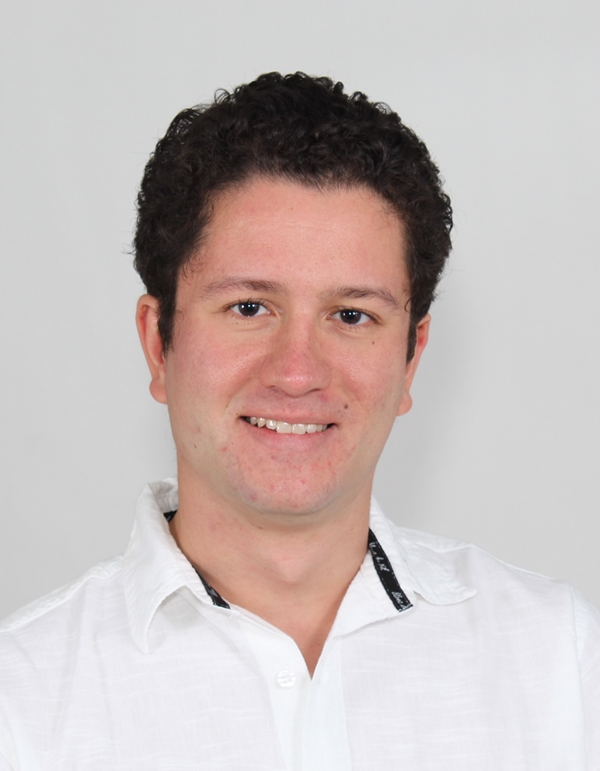
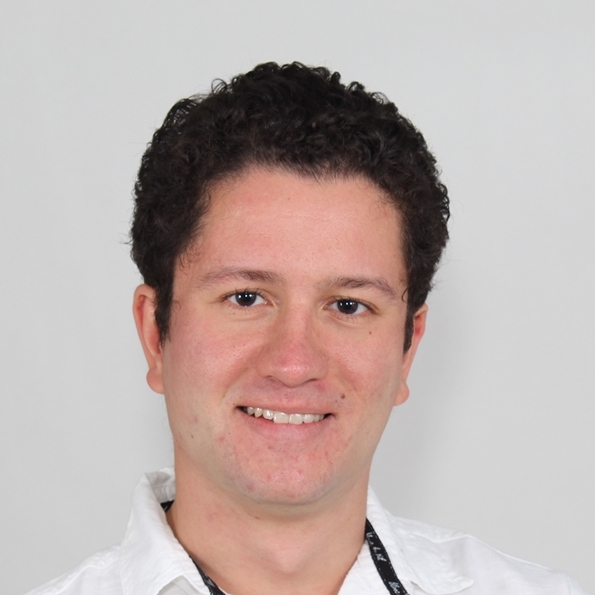
start to write some content

diff --git a/src/templates/projectTemplate.js b/src/templates/projectTemplate.js
@@ -45,22 +45,16 @@ export default function Template({
         </Grid>
         <Grid container spacing={3}>
           <Grid item xs={12}>
-            <SecondaryTitle variant="h2" align="center">Collaborateurs</SecondaryTitle>
-          </Grid>
-          <Grid item xs={12} style={{marginBottom: '30px'}}>
-            <Typography align="center">{frontmatter.author}</Typography>
-          </Grid>
-        </Grid>
-        <Grid container spacing={3}>
-          <Grid item xs={12}>
-            <SecondaryTitle variant="h2" align="center">Liens</SecondaryTitle>
+            <SecondaryTitle variant="h2" align="center">Liens Externes</SecondaryTitle>
           </Grid>
           <Grid item xs={12} align="center">
             <OutsideLink href={frontmatter.githubLink}>Repo github</OutsideLink>
           </Grid>
+          { frontmatter.prodLink && 
           <Grid item xs={12} align="center" style={{marginBottom: '30px'}}>
-            <OutsideLink href={frontmatter.prodLink}>Site</OutsideLink>
+            <OutsideLink href={frontmatter.prodLink}>Site en production</OutsideLink>
           </Grid>
+          }
         </Grid>
       </Container>
     </Layout>
@@ -77,7 +71,6 @@ export const pageQuery = graphql`
         imgName
         concept
         description
-        author
         githubLink
         prodLink
         stack

diff --git a/src/components/images/ProfilImage.js b/src/components/images/ProfilImage.js
@@ -1,31 +1,30 @@
 import React from "react"
 import { useStaticQuery, graphql } from "gatsby"
 import Img from "gatsby-image"
+import { makeStyles } from '@material-ui/styles'
 
-/*
- * This component is built using `gatsby-image` to automatically serve optimized
- * images with lazy loading and reduced file sizes. The image is loaded using a
- * `useStaticQuery`, which allows us to load the image from directly within this
- * component, rather than having to pass the image data down from pages.
- *
- * For more information, see the docs:
- * - `gatsby-image`: https://gatsby.dev/gatsby-image
- * - `useStaticQuery`: https://www.gatsbyjs.org/docs/use-static-query/
- */
+const useStyles = makeStyles({
+  image: {
+    borderRadius: '50%',
+    maxWidth: '400px'
+  }
+})
+
 
 const ProfilImage = () => {
   const data = useStaticQuery(graphql`
     query {
       placeholderImage: file(relativePath: { eq: "profil-picture.JPG" }) {
         childImageSharp {
-          fluid(maxWidth: 300) {
+          fluid(maxWidth: 600) {
             ...GatsbyImageSharpFluid
           }
         }
       }
     }
   `)
-  return <Img fluid={data.placeholderImage.childImageSharp.fluid} />
+  const classes = useStyles()
+  return <Img className={classes.image} fluid={data.placeholderImage.childImageSharp.fluid} />
 }
 
 export default ProfilImage

diff --git a/src/templates/indexTemplate.js b/src/templates/indexTemplate.js
@@ -17,13 +17,13 @@ export default function Template({data}) {
     <Layout>
       <SEO title="Home" />
       <MainTitle title={frontmatter.mainTitle} />
-      <Grid container direction="row" justify="center" align-items="center" spacing={3}>
-        <Grid item xs={12} sm={6} md={3}><ProfilImage /></Grid>
+      <Grid container direction="row" align="center" justify="center"  spacing={3}>
+        <Grid item xs={12} sm={6} md={3} ><ProfilImage /></Grid>
         <Grid item xs={12} md={9}><Typography variant="h6" align="justify">{frontmatter.introduction}</Typography></Grid>
       </Grid>
       <Box mt={5}>
       <MainTitle title="Technologies" />
-      <Grid container direction="row" justify="center" align-items="center" spacing={3}>
+      <Grid container direction="row" align="center" justify="center"  spacing={3}>
         <Grid item xs={12} sm={6}>
           <SecondaryTitle>Front-end</SecondaryTitle>
           <ArrayList arr={frontmatter.frontTechnos.split(',')} />

diff --git a/src/components/header.js b/src/components/header.js
@@ -10,6 +10,7 @@ import {
   IconButton,
   Hidden,
   Collapse,
+  Typography
 } from '@material-ui/core'
 
 import MenuIcon from '@material-ui/icons/Menu'
@@ -31,7 +32,7 @@ const Header = ({siteTitle}) => {
         <Hidden only={['xs']}>
           <Grid container justify="space-between">
             <Grid item>
-              <NavLink to="/">Olivier Rohellec</NavLink>
+              <NavLink to="/">Accueil</NavLink>
             </Grid>
             <Grid item>
               <Grid container direction="row">
@@ -53,7 +54,7 @@ const Header = ({siteTitle}) => {
         <Hidden smUp>
           <Collapse in={expanded} timeout="auto" unmountOnExit>
             <Grid container direction="column"  alignContent="center">
-                <NavLink to="/">Olivier Rohellec</NavLink>
+                <NavLink to="/">Accueil</NavLink>
                 <NavLink to="/portfolio">Portfolio</NavLink>
                 <NavLink to="/contact">Contact</NavLink>
             </Grid>

diff --git a/src/components/outsideLink.js b/src/components/outsideLink.js
@@ -4,12 +4,15 @@ import { makeStyles } from '@material-ui/core/styles';
 
 const useStyles = makeStyles({
   outsideLink: {
+    borderRadius: 5,
     color: 'black',
     display: 'block',
     textDecoration: 'none',
     fontSize: '1.3rem',
+    maxWidth: '300px',
     '&:hover': {
-      backgroundColor: '#21dafb'
+      backgroundColor: '#1f3a41',
+      color: 'white'
     }
   }
 })

diff --git a/src/pages/contact.js b/src/pages/contact.js
@@ -14,7 +14,6 @@ import Layout from "../components/layout"
 import MainTitle from "../components/mainTitle"
 
 const ContactPage = () => {
-
   const encode = (data) => {
     return Object.keys(data)
         .map(key => encodeURIComponent(key) + "=" + encodeURIComponent(data[key]))

diff --git a/src/components/ListItemLink.js b/src/components/ListItemLink.js
@@ -5,7 +5,11 @@ import { makeStyles } from '@material-ui/styles'
 
 const useStyles = makeStyles({
   button: {
-    padding: 0
+    padding: '0 20px',
+    borderRadius: 5,
+    '&:hover': {
+      backgroundColor: '#1f3a41'
+    }
   }
 })
 

diff --git a/src/components/navLink.js b/src/components/navLink.js
@@ -13,6 +13,7 @@ const useStyles = makeStyles({
     padding: '0.7rem',
     fontSize: '1.3rem',
     fontWeight: 'bold',
+    borderRadius: 5,
     '&:hover': {
       backgroundColor: '#1f3a41'
     }

diff --git a/src/markdown-pages/projects/fight-arena.md b/src/markdown-pages/projects/fight-arena.md
@@ -2,11 +2,10 @@
 type: "project"
 imgName: "fight-arena.png"
 path: "/portfolio/fight-arena"
-title: "Simple jeu d'arène"
-description: "Lorem ipsum dolor sit amet, consectetur adipiscing elit. Aenean elementum sed eros in dapibus. Donec tristique justo aliquet magna euismod commodo. Duis id tortor facilisis, eleifend nisi in, volutpat arcu. Ut vestibulum molestie interdum. Mauris molestie congue sapien vel hendrerit. Nulla placerat, erat eu vulputate varius, odio dolor tristique nisl, vitae malesuada nunc purus scelerisque leo. Pellentesque bibendum ipsum nunc, facilisis porttitor lectus varius nec. Sed convallis nisi nibh, eu finibus ligula tincidunt eu. Phasellus aliquet nunc id tortor egestas, in sollicitudin nisl sagittis. Curabitur pellentesque nunc tortor, vitae ultrices nulla dapibus in. Mauris vehicula feugiat massa, sed venenatis mi tincidunt eget. Ut vulputate nunc nec nisl lobortis facilisis. Cras sit amet leo in sapien faucibus sollicitudin."
-author: "Olivier"
+title: "Fight Arena"
+description: "Mini jeu de combat créé dans le contexte d'un test technique pour l'entreprise Captain Contrat. Pour pouvoir jouer il faut créer un compte. On peut ensuite créer un combattant et l'équiper avec quelques objets afin de le faire combattre contre un combattant aléatoire appartenant à un autre joueur. Le nombre de victoires et de défaites est enregistré ainsi que l'historique du combat. On peut également visualiser le palmarés des meilleurs combattants. NB: Le jeu n'est pas réellement fun, c'était davantage pour me remettre sur Ruby on Rails après avoir fait un grand détout par javascript, react, node.js"
 concept: "Mini jeu de combat ou l'on peut créer un combattant et le faire s'affronter avec les combattants des autres joueurs"
 githubLink: "https://github.com/orohellec/captain-contrat-test"
 prodLink: "https://fight-world-arena.herokuapp.com"
-stack: "ruby on rails,bootstrap,rspec"
+stack: "html css,ruby on rails,rspec,heroku"
 ---

diff --git a/src/markdown-pages/projects/ecommerce.md b/src/markdown-pages/projects/ecommerce.md
@@ -3,10 +3,11 @@ type: "project"
 imgName: "shop-ecommerce.png"
 path: "/portfolio/site-ecommerce"
 title: "Site Ecommerce"
-description: "Lorem ipsum dolor sit amet, consectetur adipiscing elit. Aenean elementum sed eros in dapibus. Donec tristique justo aliquet magna euismod commodo. Duis id tortor facilisis, eleifend nisi in, volutpat arcu. Ut vestibulum molestie interdum. Mauris molestie congue sapien vel hendrerit. Nulla placerat, erat eu vulputate varius, odio dolor tristique nisl, vitae malesuada nunc purus scelerisque leo. Pellentesque bibendum ipsum nunc, facilisis porttitor lectus varius nec. Sed convallis nisi nibh, eu finibus ligula tincidunt eu. Phasellus aliquet nunc id tortor egestas, in sollicitudin nisl sagittis. Curabitur pellentesque nunc tortor, vitae ultrices nulla dapibus in. Mauris vehicula feugiat massa, sed venenatis mi tincidunt eget. Ut vulputate nunc nec nisl lobortis facilisis. Cras sit amet leo in sapien faucibus sollicitudin."
-author: "Olivier, Quentin, Charles"
-concept: "Réaliser un site ecommerce avec un espace Administrateur"
+description: "Ce projet a été pour nous un bon moyen de revoir et d’approfondir les connaissances accumulées lors de la formation initiale. 
+En dépit des images de pokémons présentes, ce site contient les fonctionnalités essentielles d’un site Ecommerce. Possibilité de créer un compte, d’ajouter des produits à son panier, et de passer commande.
+Il y a également une interface administrateur permettant l’ajout, l’édition, la suppression de produits, le suivi de commande."
+concept: "Site Ecommerce réalisé dans le cadre de la formation The Hacking Project Next avec deux camarades Lyonnais (Quentin et Charles) en télétravail"
 githubLink: "https://github.com/orohellec/shop_ecommerce"
 prodLink: "https://ecommercethp-production.herokuapp.com/"
-stack: "ruby on rails,bootstrap,rspec"
+stack: "ruby on rails,bootstrap,rspec,redis,sidekiq,docker,heroku"
 ---

diff --git a/src/markdown-pages/projects/my-website.md b/src/markdown-pages/projects/my-website.md
@@ -3,9 +3,8 @@ type: "project"
 imgName: "my-website.png"
 path: "/portfolio/site-personnel"
 title: "Site Personnel"
-description: "Lorem ipsum dolor sit amet, consectetur adipiscing elit. Aenean elementum sed eros in dapibus. Donec tristique justo aliquet magna euismod commodo. Duis id tortor facilisis, eleifend nisi in, volutpat arcu. Ut vestibulum molestie interdum. Mauris molestie congue sapien vel hendrerit. Nulla placerat, erat eu vulputate varius, odio dolor tristique nisl, vitae malesuada nunc purus scelerisque leo. Pellentesque bibendum ipsum nunc, facilisis porttitor lectus varius nec. Sed convallis nisi nibh, eu finibus ligula tincidunt eu. Phasellus aliquet nunc id tortor egestas, in sollicitudin nisl sagittis. Curabitur pellentesque nunc tortor, vitae ultrices nulla dapibus in. Mauris vehicula feugiat massa, sed venenatis mi tincidunt eget. Ut vulputate nunc nec nisl lobortis facilisis. Cras sit amet leo in sapien faucibus sollicitudin."
-author: "Olivier"
-concept: "Réaliser un site portfolio sans base de donnée"
+description: "Il s'agit de mon site personnelle sur lequel vous êtes en ce moment même. J'ai décidé d'utiliser Gatsby pour le réaliser pour plusieurs raisons. C'était un bon moyen pour moi de refaire un peu de react, d'apprendre Graphql, la librairie de composants Material-Ui, de découvrir le monde des générateurs de sites statiques ainsi que les headless CMS. De plus c'est rapide ce qui est agréable en plus d'améliorer le SEO et cerise sur le gâteau l'hébergement est gratuit! Ce site est relié à une interface admin éditoriale (Nelify CMS) ou je peux modifier une partie de mon contenu sans avoir à retourner dans le code de l'application. Un mini wordpress en somme!"
+concept: "Réaliser mon propre site portfolio sans base de donnée"
 githubLink: "https://github.com/orohellec/my_website"
 prodLink: ""
 stack: "Gatsby,React,Graphql,Material-ui,Netlify,Netlify-cms"

diff --git a/src/markdown-pages/index.md b/src/markdown-pages/index.md
@@ -3,7 +3,11 @@ type: "home"
 title: "Olivier Rohellec"
 path: "/"
 mainTitle: "Développeur fullstack React / Ruby on Rails"
-introduction: "Lorem ipsum dolor sit amet, consectetur adipiscing elit. Aenean elementum sed eros in dapibus. Donec tristique justo aliquet magna euismod commodo. Duis id tortor facilisis, eleifend nisi in, volutpat arcu. Ut vestibulum molestie interdum. Mauris molestie congue sapien vel hendrerit. Nulla placerat, erat eu vulputate varius, odio dolor tristique nisl, vitae malesuada nunc purus scelerisque leo. Pellentesque bibendum ipsum nunc, facilisis porttitor lectus varius nec. Sed convallis nisi nibh, eu finibus ligula tincidunt eu. Phasellus aliquet nunc id tortor egestas, in sollicitudin nisl sagittis. Curabitur pellentesque nunc tortor, vitae ultrices nulla dapibus in. Mauris vehicula feugiat massa, sed venenatis mi tincidunt eget. Ut vulputate nunc nec nisl lobortis facilisis. Cras sit amet leo in sapien faucibus sollicitudin."
+introduction: "Après un parcours assez atypique j’ai décidé de me reconvertir dans le développement web depuis un peu plus d’un an maintenant.
+J’ai tenté la piscine de 42, participé au Bootcamp The Hacking Project pendant 6 mois et continué d’apprendre en autodidacte jusqu’à aujourd’hui.
+Il me reste beaucoup à apprendre, néanmoins je pense avoir les connaissances requises pour un premier emploi en tant que développeur web junior.
+Vous trouverez ici les technologies que j’ai étudiés ainsi que quelques uns des projets sur lesquelles j’ai travailler.
+Bonne visite !"
 frontTechnos: "Html CSS Javascript,React,Redux,Bootstrap,Material-Ui, Jquery"
 backTechnos: "Ruby on Rails, Node.js, Heroku, API-REST, Graphql, SQL"
 ---
